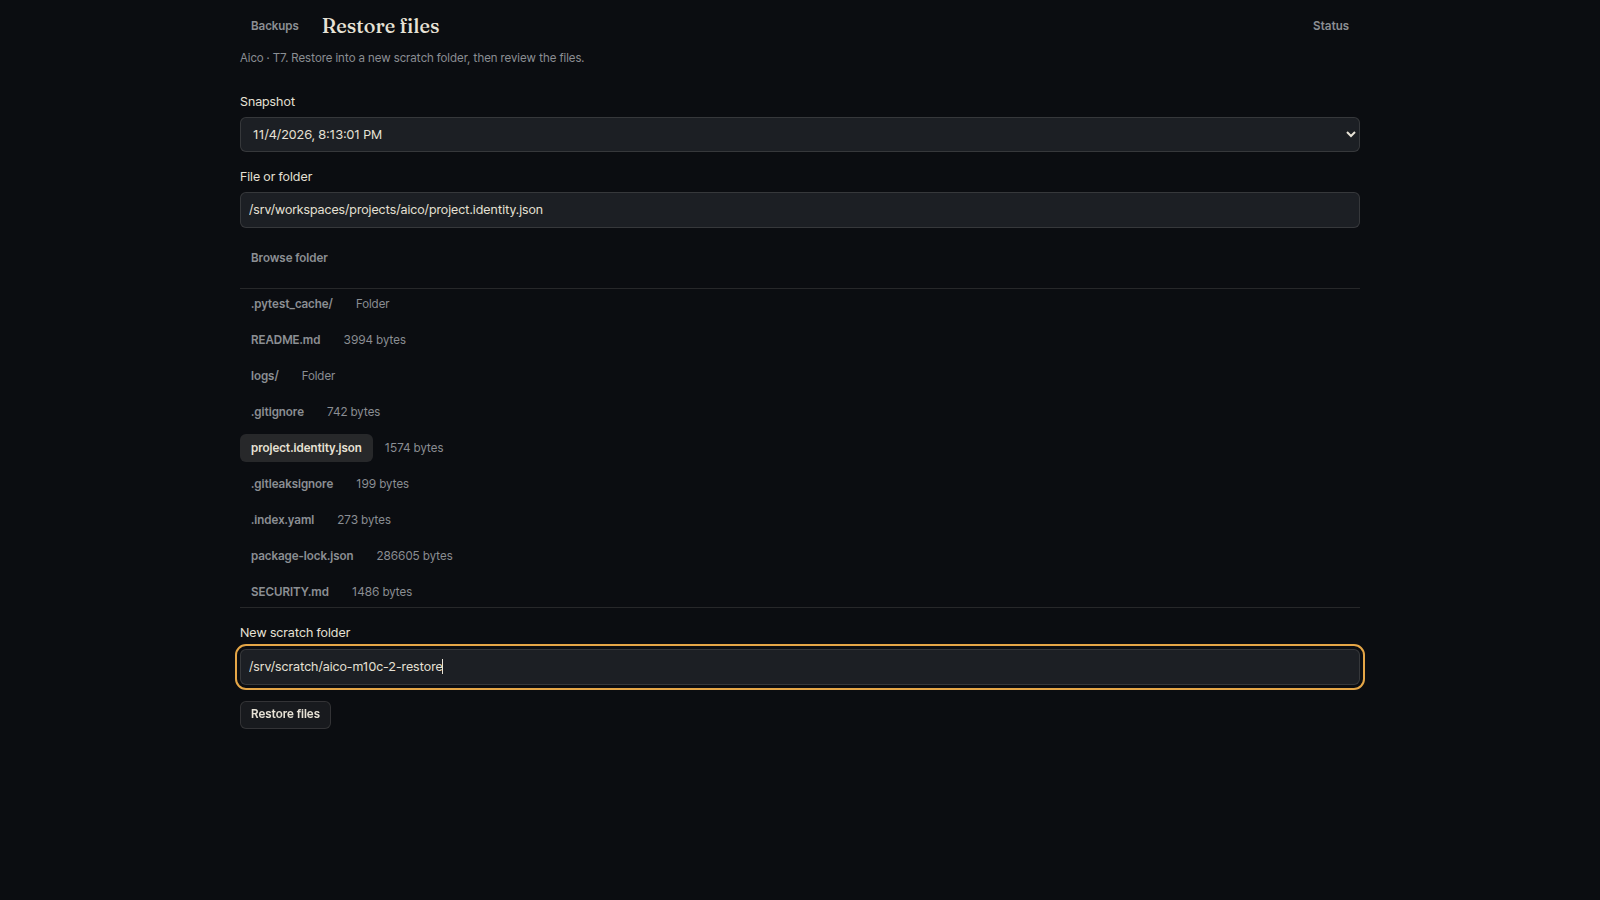
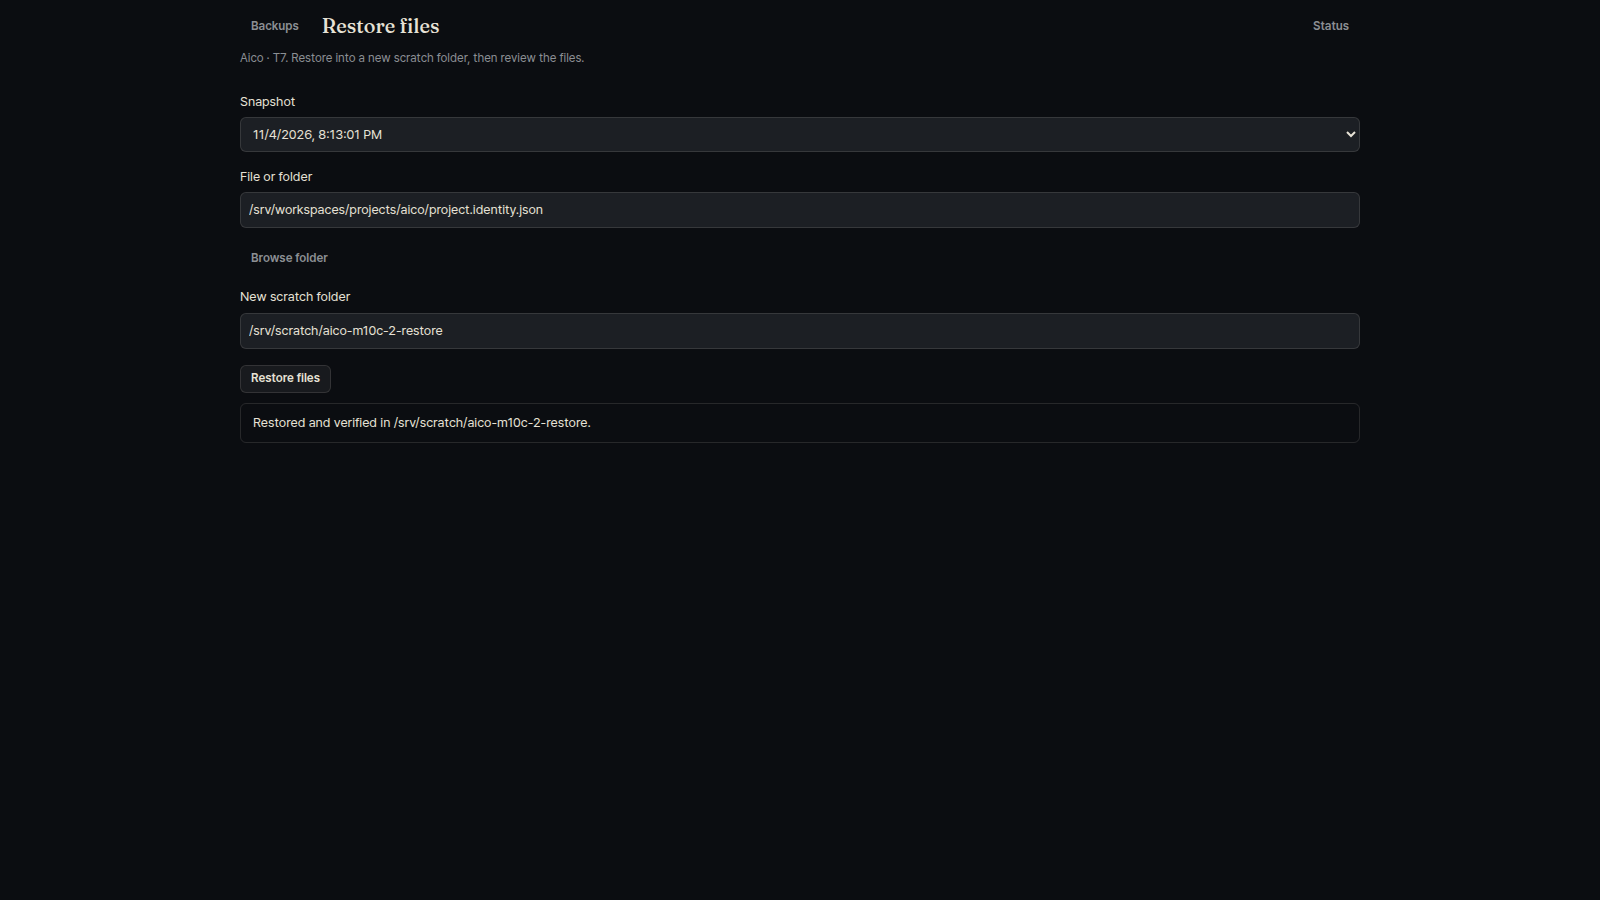
Record the verified scratch restore

Changed region(s): [[0.1562, 0.6533, 0.8438, 0.8089], [0.1562, 0.3111, 0.375, 0.6222]]

diff --git a/docs/plans/codebase-cleanup/evidence/M10c-2/progress.md b/docs/plans/codebase-cleanup/evidence/M10c-2/progress.md
@@ -12,7 +12,7 @@ No secret bytes were printed. CT160 repository initialization and the forced-com
 
 Required review: review-codex.md. All eleven findings addressed with regression coverage. The first reproductions failed before the fixes; latest focused ops run: 64/64 passed (.dev-tools/vitest-18e4fdeadb669059-1645641-ddf367fe-details.txt). Tests cover physical-point aliases, independent receipt races, frozen-tree classification, omitted nested projects, baseline creation, source qualification, stale folder import, native-root verified restore, stream restore paths, auth-copy replacement and package/boot timing. Scheduling tests cover CT190 Run now and weekly verification entry.
 
-Source checkpoints: 5930fe31 (engine/screen), b1d46038 (jobs schedule, committed by the publication lane to resolve named-writer attribution), f657ca9a and 16dabd10 (retention/recovery compatibility), 11d3a836 (native helper staging, imported successful-run qualification, boot connection handling, deploy ops ordering/rollback), 61ca1da1 (root-owned native browse/restore canonicalization). Shared changes preserve the publication job and the Logins lane's work.
+Source checkpoints: 5930fe31 (engine/screen), b1d46038 (jobs schedule, committed by the publication lane to resolve named-writer attribution), f657ca9a and 16dabd10 (retention/recovery compatibility), 11d3a836 (native helper staging, imported successful-run qualification, boot connection handling, deploy ops ordering/rollback), 61ca1da1 (root-owned native browse/restore canonicalization), b00048f6 (Redis capture uses the previous engine's credential-file reference at runtime). Shared changes preserve the publication job and the Logins lane's work.
 
 Post-change acceptance passed at 16dabd10 (3343 JavaScript, 1153 Python) and 11d3a836 (3348 JavaScript, 1153 Python). The latter receipt is `.git/aico-checks/receipts/accept-74d2bcadde3ecfe055b099dad402e3096de04749.json`. The legacy ST acceptance wrapper refused unrelated live prepared-config drift from another lane; the supported Aico acceptance facade checked each exact committed tree in its own worktree instead. Quick gates passed at each source checkpoint. Further live defects were reproduced by failing tests before fixing them: native helper staging, qualification count, ops promotion before jobs restart (with rollback), startup connection refusal, and root-only T7 path resolution.
 
@@ -20,10 +20,12 @@ Workstation deploys: aico-6434d7e5867c (16dabd10), aico-88dbbe3bf3f3 (11d3a836);
 
 Live clean receipts (UTC): T7 2026-11-05 01:13:01–01:13:31, six verified received readonly volumes and published recovery metadata; workstation append 00:56:03–00:56:08; CT190 append 01:13:31–01:13:33; work snapshots 00:55:42–00:55:44; guard repeatedly clean. Drive is running manually without `--scheduled`, so it will not invoke retention. No prune/forget was run by hand. Existing policy applies only through the configured scheduled jobs. An earlier T7 run copied six volumes but failed receipt publication due to the staging contract; its partial capture was preserved. The following clean run used the installed helper's original allowed staging path.
 
-Final source acceptance: 61ca1da1 passed, 3349 JavaScript and 1153 Python tests; all required lint/type/boundary/UI gates passed. Native tool stages reused unchanged inputs. Receipt: `.git/aico-checks/receipts/accept-50d9dbe007d315f8c24a2e4837205c6ccb86c605.json`. Workstation deployment aico-47083201e986 succeeded. CT190's pinned 61ca1da1 source install also succeeded. Source/runtime fixes are deployed, not merely tested.
+Native reader source acceptance: 61ca1da1 passed, 3349 JavaScript and 1153 Python tests; all required lint/type/boundary/UI gates passed. Native tool stages reused unchanged inputs. Receipt: `.git/aico-checks/receipts/accept-50d9dbe007d315f8c24a2e4837205c6ccb86c605.json`. Workstation deployment aico-47083201e986 succeeded. CT190's pinned 61ca1da1 source install also succeeded.
 
-Rendered evidence: `backups-1600x900.png`, `backups-390x844.png`, `restore-1600x900.png`, `restore-390x844.png`; corresponding `*-uilint.txt` files all report zero violations. Images were visually reviewed; both viewports fit the page without horizontal document overflow. Search, native snapshot selection, folder browsing, file selection and scratch destination entry were exercised live. The native root-only read defect was reproduced live and by a failing regression before fixing it. Restore execution is pending the shared data-operation lock held by Drive. The list screenshots honestly show the still-pending Drive copy and external failure; they will be refreshed after completion.
+First full Drive run finished 2026-11-05 01:36:33 UTC. Redis was its only failed copy; all other sources obtained valid copies, including Aico SQLite/photos and the previously unqualified folder sources. Redis's new Docker capture command had omitted authentication; the old SF reference loads its existing owner-held compose credential file. The agent did not open that file, view an environment dump, or print credentials. The runtime capture now retains the original file reference and sends only `REDISCLI_AUTH` to the local Redis client through its environment, never argv or logs. The failing live probe and regression test preceded b00048f6. An isolated fixture validates authenticated binary capture without real credentials. Quick and exact acceptance passed (3375 JavaScript, 1153 Python; receipt `.git/aico-checks/receipts/accept-3ddf4a7219739e853174a13a851e2a7a3ae543c7.json`). The sidebar and Logins lanes are deploying a shared accepted descendant with this fix; live verification follows that deployment.
+
+Rendered evidence: `backups-1600x900.png`, `backups-390x844.png`, `restore-1600x900.png`, `restore-390x844.png`; corresponding `*-uilint.txt` files all report zero violations. Images were visually reviewed; both viewports fit the page without horizontal document overflow. Search, native snapshot selection, folder browsing, file selection and scratch destination entry were exercised live. The native root-only read defect was reproduced live and by a failing regression before fixing it. Restore executed through the UI into the new `/srv/scratch/aico-m10c-2-restore` folder; its success notice is in both restore screenshots. The engine compared bytes with `diff`; an independent `cmp` returned zero for `project.identity.json` (1574 bytes). `restore-proof.json` records the comparison and digest. The list screenshots will be refreshed after the clean Drive rerun.
 
 The external Portfolio backup probe reports unavailable honestly: `qm status 180` returned `status: stopped`. It was not started. This external owner's schedule is outside Aico's backup runner.
 
-Pending: Drive completion; one scratch restore and comparison; manual read-back check; fresh list screenshots and final Status evidence; timer cutover. Rollback instructions are in `rollback.md`. Legacy backup timers remain enabled until clean replacement runs are verified. No backup data or snapshots have been manually pruned/forgotten/deleted.
+Pending: Redis fix deployment and clean Drive rerun; manual read-back check completion; fresh list screenshots and final Status evidence; timer cutover. Rollback instructions are in `rollback.md`. Legacy backup timers remain enabled until clean replacement runs are verified. No backup data or snapshots have been manually pruned/forgotten/deleted.
